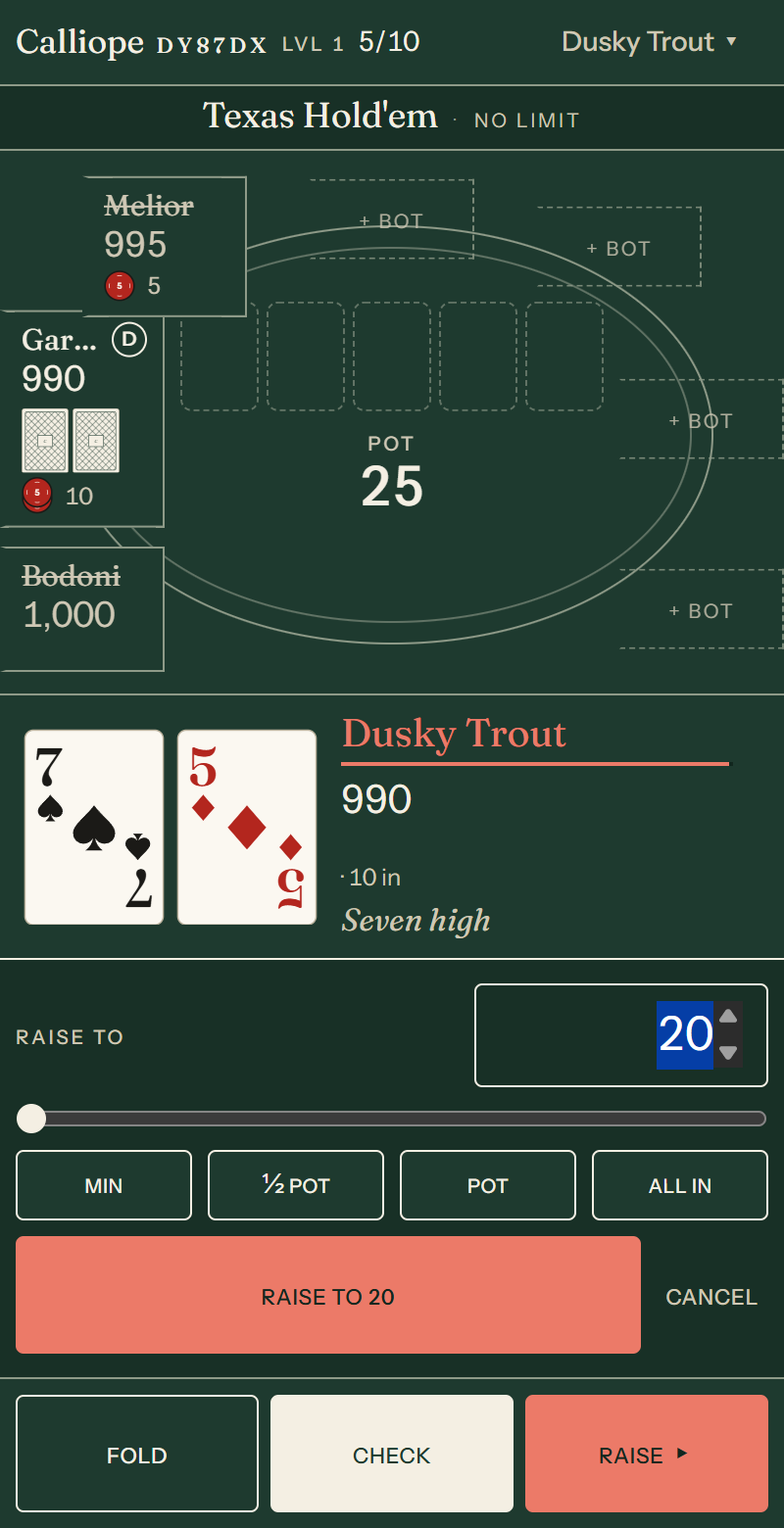
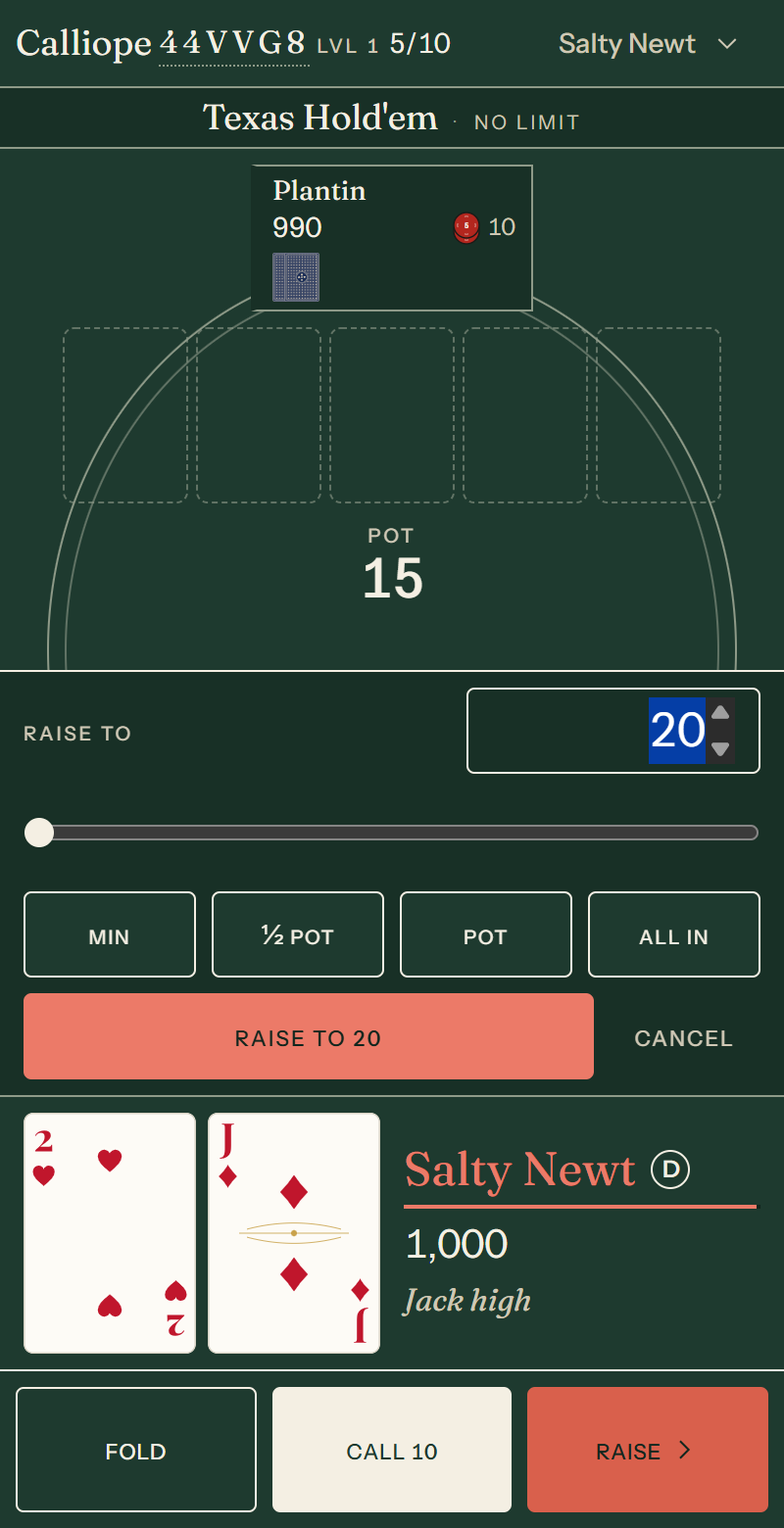
Write the refined layout into the design doc, and run the audit in CI
docs/design.md now describes what was built: Felt's values beside Paper
& ink's in the colour table, the new tokens (--ink-disabled, --seat-bg,
--t-h3, --t-lead, --t-seat, --s-0, --r-panel, --hit), the 44px hit area,
the icon set, the legibility rule and index tiles, the phone horseshoe,
the wide ellipse and the short layout, the stage under the pot, the
seat card's single stack line, the own seat sized for the most cards,
the notices in the game strip, the action bar's waiting and primary
states, and the lobby's folded sections and save bar.

npm run e2e:layout runs the layout audit; CI runs it for all six games
at eight players on a phone, a phone on its side and a laptop. The
README's table screenshots are retaken from the walkthroughs.

diff --git a/docs/design.md b/docs/design.md
@@ -14,29 +14,33 @@ Three tests for any new screen or component:
 
 ## 2. Tokens
 
-Tokens are CSS custom properties on `:root`, set by the active theme. Components only use tokens, never raw values. Every theme must define every token.
+Tokens are CSS custom properties on `:root`, set by the active theme, in `packages/web/src/styles/tokens.css`. Components only use tokens, never raw values. Every theme must define every colour token. `packages/web/test/tokens.test.ts` holds these rules: it fails on a missing token, a contrast below the minimums below, a raw font size or colour outside `tokens.css`, or a shadow, blur or gradient.
 
 ### Color
 
-| Token | Paper & ink | Meaning |
-|---|---|---|
-| `--paper` | `#F4EFE3` | Page ground |
-| `--paper-2` | `#EAE3D2` | Slightly deeper ground: panels, the table surface |
-| `--paper-3` | `#DDD4BE` | Pressed/inset surfaces, disabled fills |
-| `--ink` | `#1B1A17` | Primary text, black suits, rules |
-| `--ink-2` | `#5B574D` | Secondary text, hints, folded players |
-| `--ink-3` | `#9A9384` | Tertiary: placeholders, hairlines |
-| `--red` | `#B3261E` | Red suits, the "to act" mark, destructive confirmation |
-| `--red-2` | `#8F1D17` | Red pressed state |
-| `--on-red` | `#FBF8F1` | Text on a red fill. Each theme picks the readable one |
-| `--accent` | `#1F4E5F` | A single cool ink for links and the active tab. Used sparingly |
-| `--field-bg` | `#FBF8F1` | Input and select fill |
-| `--card-face` | `#FBF8F1` | Card stock, slightly whiter than paper |
-| `--card-back` | `#1B1A17` | Card back ink (pattern drawn in `--paper`) |
-| `--felt` | `#EAE3D2` | Table surface. In paper & ink it is just deeper paper |
-| `--focus` | `#1F4E5F` | Keyboard focus ring |
+The names come from the paper & ink theme, where they are literal. Felt is the default theme, so its values are listed first.
 
-Contrast requirements: `--ink` on `--paper` ≥ 12:1, `--ink-2` on `--paper` ≥ 5:1, `--red` on `--paper` ≥ 5.5:1, `--paper` on `--ink` ≥ 12:1.
+| Token | Felt | Paper & ink | Meaning |
+|---|---|---|---|
+| `--paper` | `#1E3A2F` | `#F4EFE3` | Page ground |
+| `--paper-2` | `#183026` | `#EAE3D2` | Slightly deeper ground: panels, the game strip, fields |
+| `--paper-3` | `#12261E` | `#DDD4BE` | Pressed/inset surfaces, disabled fills |
+| `--ink` | `#F4EFE3` | `#1B1A17` | Primary text, rules |
+| `--ink-2` | `#CFC8B5` | `#5B574D` | Secondary text, hints, folded players |
+| `--ink-3` | `#8E9A88` | `#9A9384` | Tertiary: placeholders, hairlines |
+| `--ink-disabled` | `#8E9A88` | `#6F6A5E` | A disabled control's label: faint, but still legible |
+| `--red` | `#EC7A68` | `#B3261E` | Red suits, the "to act" mark, aggressive and destructive actions |
+| `--red-2` | `#D9604C` | `#8F1D17` | Red pressed state |
+| `--on-red` | `#12261E` | `#FBF8F1` | Text on a red fill. Each theme picks the readable one |
+| `--accent` | `#9AC7D6` | `#1F4E5F` | A single cool ink for links and the active tab. Used sparingly |
+| `--focus` | `#9AC7D6` | `#1F4E5F` | Keyboard focus ring |
+| `--felt` | `#1E3A2F` | `#EAE3D2` | Table surface |
+| `--seat-bg` | `#183026` | `#EAE3D2` | An opponent's seat card, so seats read as things set on the felt |
+| `--field-bg` | `#183026` | `#FBF8F1` | Input and select fill |
+| `--card-face` | `#FBF8F1` | `#FBF8F1` | Card stock, the same on every theme |
+| `--card-back` | `#F4EFE3` | `#1B1A17` | The fallback card's back |
+
+Contrast minimums, per theme: `--ink` on `--paper` ≥ 7:1; `--ink-2` on `--paper` ≥ 4.5:1; `--on-red` on `--red` ≥ 4.5:1; `--ink` on `--seat-bg` ≥ 7:1; `--ink-disabled` on `--paper` and on `--paper-3` ≥ 3:1.
 
 Chip colors come from room config, not the theme. The theme provides a chip *style* (see §5), and the default denomination set:
 
@@ -61,24 +65,37 @@ Scale (rem, base 16px):
 | Token | Size | Use |
 |---|---|---|
 | `--t-display` | 3.5 | Landing title, night-report winner |
-| `--t-h1` | 2.25 | Screen titles |
-| `--t-h2` | 1.5 | Section titles, player's own hand label |
+| `--t-h1` | 2.25 | Screen titles, the room code |
+| `--t-h2` | 1.5 | Section titles, the player's own name |
+| `--t-h3` | 1.25 | The player's own stack, the turn stamp on a phone |
+| `--t-lead` | 1.125 | Brand, game strip, seat names in the lobby |
 | `--t-body` | 1.0 | Body |
-| `--t-small` | 0.875 | Hints, seat names |
-| `--t-micro` | 0.75 | Small caps labels, folio |
-| `--t-stack` | 1.125 | Stack numbers on seats |
+| `--t-small` | 0.875 | Hints, opponents' names and stacks on a phone |
+| `--t-seat` | 0.8125 | The smallest seat text on a phone |
+| `--t-micro` | 0.75 | Small caps labels, folio. Nothing is set smaller |
+| `--t-stack` | 1.125 | Stack numbers on wide-screen seats |
 | `--t-pot` | 1.75 | Pot in the middle |
-| `--t-action` | 1.25 | Action bar buttons |
+| `--t-action` | 1.125 | Action bar buttons |
 
 Small caps labels (`font-variant-caps: all-small-caps; letter-spacing: 0.08em`) are the standard way to label a value: "POT", "TO CALL", "DEALER", "BLINDS 5 / 10".
 
 ### Space and rules
 
-Spacing scale: `4, 8, 12, 16, 24, 32, 48, 64` px as `--s-1` … `--s-8`.
+Spacing scale: `4, 8, 12, 16, 24, 32, 48, 64` px as `--s-1` … `--s-8`, and `--s-0` (2px) for hairline offsets only.
 
 Rules are 1px `--ink-3` or 1px `--ink` for emphasis. Double rules (two 1px lines 3px apart) mark section ends, as in a ledger. No box shadows. Panels are distinguished by `--paper-2` fill and a hairline, or by a rule alone.
 
-Corner radius: cards 6px, chips are circles, buttons 4px, panels 0px. Sharp corners are part of the print feel.
+Corner radius: cards 6px (or the deck's own), chips are circles, buttons 4px (`--r-btn`), panels 0px (`--r-panel`). Sharp corners are part of the print feel.
+
+### Controls
+
+`--hit` (44px) is the smallest thing a finger is asked to hit. Every `.btn`, and anything else given the `hit` class, carries a transparent pad that makes its hit area at least `--hit` square however small it is drawn, so a quiet 36px "stand up" is drawn small and hit large. Inputs and selects are 44px tall; a checkbox or radio sits in a 44px label row.
+
+Buttons come in three sizes: the action bar's (64px on a phone, 56px wide), the default (44px), and small (drawn 36px). Four inks: outline (secondary), ink fill (commit), red fill (aggressive or destructive), quiet (text only). Disabled is a `--paper-3` fill with `--ink-disabled` text.
+
+### Icons
+
+Few, and drawn like the rest of the page: `components/Icon.tsx` holds inline SVGs on a 24-unit grid, one 1.5 stroke in the current ink, square ends, no fills (chevrons, close, plus, check, copy, pencil, person). They sit on the text baseline at 16, 20 or 24px. The dealer button stays a printed "D" in a circle, because it is type. Text glyphs (▾ ▸ ×) are not used as icons.
 
 ### Motion
 
@@ -96,10 +113,11 @@ Cards come from **Open Playing Cards** decks, the format Card Atelier exports ([
 
 | Context | Width |
 |---|---|
-| Player's own hole cards (phone) | 72–88px |
-| Player's own hole cards (desktop) | 112px |
-| Board | 40px phone / 72px desktop |
-| Opponent cards (face down / stud up cards) | 24px phone / 36px desktop |
+| Player's own cards, phone | 72–88px for two or three; 64px for four to seven, overlapped only when they will not fit |
+| Player's own cards, wide | 112px for two or three, 88px for four or five, 76px for more |
+| Board | 48–64px on a phone; on a wide screen as large as clears the seats, up to 120px |
+| Opponents' face-up cards (tiles) | 22px phone / 30px wide |
+| Opponents' face-down cards (backs, fanned) | 18px phone / 24px wide |
 | Theme previews | 26px |
 
 Rules:
@@ -108,7 +126,7 @@ Rules:
 - **Size from the deck.** Height is width × `heightMm / widthMm`, rounded to a whole pixel; corners follow `cornerRadiusMm`, and bleed is cropped off. Images keep their transparent corners, so any felt shows through.
 - **Vector first.** A card is drawn from its `vector` SVG when the deck has one: the browser rasterises it at exactly the drawn size, so it is sharp on any screen, and the files are a fraction of the PNGs' size. Imported decks keep only the SVG when both are present.
 - **PNGs drawn at exact size.** A deck's PNGs are print-sized, and a browser shrinking one five-fold in a single step leaves it soft on a 1x screen. A PNG-only card is resampled once per session (`createImageBitmap`, high quality) to exactly its on-screen device-pixel size and drawn from that rendition (`renditions.ts`); the original shows for the few milliseconds until it is ready.
-- **Legibility is the deck's.** Calliope draws a card exactly as the deck drew it and adds nothing over it. A print-proportioned index is ~6% of card height, two pixels at 30px, so decks meant for play here are exported with oversized indices (Card Atelier: Artwork → Lettering → Oversize for digital play); the starter decks all are.
+- **A picture only where it can be read.** Calliope draws a card exactly as the deck drew it and adds nothing over it, but it only uses the picture where the corner index will be legible: at least 6.5px tall on screen. The index height comes from the deck's smallest `ranks[].indexHeightMm` over its `heightMm` (6% when the deck does not say, which is a print-proportioned index). Below that size the card is drawn as an **index tile** instead: card stock with the rank set large (never under 12px) in Instrument Sans and the suit pip under it, in the card inks. The tile is not painted over the deck's art; it stands in place of it, the way a scorer writes "K♥" rather than sketching the card. Opponents' face-up cards are always tiles, because a seat has no room for a card big enough to read. Decks meant for play here are exported with oversized indices (Card Atelier: Artwork → Lettering → Oversize for digital play) so that the board and the player's own cards show the art; the starter deck's index is about 10% of its height, so its pictures are legible from about 48px wide.
 - **One choice, faces and back together.** The back is the deck's; there is no separate back picker. The preference is local to the device, like the theme. Other players never see your deck.
 - **Starter decks** ship unzipped under `packages/web/public/decks/<folder>/` and are served as plain files, fetched once and cached. The build checks each (complete french-52, a licence, every picture present: PNGs at the stated size, SVGs with an `<svg>` root) and fails otherwise. The first folder in `starterDecks({ order })` in `vite.config.ts` is the default.
 - **Imported decks** (Profile → Deck → Import) accept the `.zip` or the single `.cards.json`, are checked the same way, and live in IndexedDB as PNG blobs, drawn from object URLs made once when the deck is chosen. A re-import with the same `deckId` replaces the copy; an imported copy of a starter deck stands in for it until removed.
@@ -119,50 +137,60 @@ Face-down cards belonging to the player are never shown face down; the player al
 
 ## 4. Table layout
 
-The player's seat is always bottom-center. Opponents are arranged on an arc above. Positions are computed from the player's seat index so every player sees themselves at the bottom.
+The player's seat is always bottom-center. Opponents are arranged round the table above it, clockwise from the player, so every player sees themselves at the bottom. Only occupied seats are drawn: an open chair is not worth the room on the felt. The host adds bots from the table menu, and a watcher takes the next open seat from their own panel.
 
-### Phone portrait (≥ 360px wide, the primary layout)
+Every layout is checked by `packages/web/e2e/layout-audit.mjs`, which plays each game at 3, 6 and 8 players and resizes through eight windows from 360×640 to 1920×1080 (§9). No seat may overlap another seat, the board, the pot or the player's own seat; nothing may leave the window; and the table may not move between hands.
+
+Which layout is used is decided once, in `Table.tsx`, and handed to CSS as `data-layout` on the table screen, so the script and the styles cannot disagree.
+
+### Phone portrait (`phone`, the primary layout)
 
 ```
 ┌──────────────────────────────┐
-│ CALLIOPE  ·  Room K7Q2M4   ⋯ │  top bar: 40px, room code, menu
+│ Calliope K7Q2M4       Alice ⌄│  top bar: 44px, room code, menu
+│   Omaha · pot limit          │  game strip: one line, always
 ├──────────────────────────────┤
-│                              │
-│   (opp)   (opp)   (opp)      │  opponents row(s): up to 7 seats
-│ (opp)                 (opp)  │  on an arc; each seat is a
-│   (opp)           (opp)      │  compact "seat card" (§4.2)
-│                              │
-│        ┌──┐┌──┐┌──┐┌──┐┌──┐  │  board, centered
-│        └──┘└──┘└──┘└──┘└──┘  │
-│            POT  1,240        │  pot, small caps label
-│                              │
+│  (opp 3)   (opp 4)   (opp 5) │  across the top
+│   ┌──┐ ┌──┐ ┌──┐ ┌──┐ ┌──┐   │  the board, full width
+│   └──┘ └──┘ └──┘ └──┘ └──┘   │
+│ (opp 2)      POT      (opp 6)│  pot between the side columns,
+│ (opp 1)     1,240     (opp 7)│  the stage under it
 ├──────────────────────────────┤
 │  ┌────┐ ┌────┐   Alice       │  player's own seat: large cards,
 │  │ A♠ │ │ K♥ │   2,450       │  name, stack, hand label
-│  └────┘ └────┘   "Ace high"  │
+│  └────┘ └────┘   Ace high    │
 ├──────────────────────────────┤
-│ [ FOLD ]  [ CALL 40 ]  [ RAISE ▸ ] │  action bar: 64px tall
+│ [ FOLD ] [ CALL 40 ] [RAISE ›]│  action bar: 64px buttons
 └──────────────────────────────┘
 ```
 
-The action bar is fixed to the bottom with safe-area padding. The board and pot are centered in the remaining space. Opponent seats never overlap the board.
+A horseshoe on a grid. Opponents run up the left column, across the top and down the right, clockwise from the player, so the first opponent to the player's left is at the bottom of the left column. Up to two opponents sit across the top; three to five put one in each side column; six or more put two in each. The board spans the row between the top seats and the side columns; the pot sits in the middle column between them, with the **stage** under it. Every seat has its own grid cell, so a seat can never land on the board or on another seat, whatever it holds.
 
-### Desktop (≥ 900px)
+The table takes whatever height is left after the top bar, the strip, the player's own seat and the action bar, and none of those change height during a night (§4.2a, §4.4, §6), so the table does not move between turns or between hands. The board's cards are sized from what is left: 48–64px, smaller when two seats stand in each side column.
 
-Same structure, but the opponent arc is a true ellipse around the table surface and the player's seat sits inside the ellipse at the bottom. The action bar becomes a centered panel 560px wide rather than full width. A hand-history rail (last 5 hands, one line each) sits on the right at ≥ 1200px.
+### Wide (`wide`, 900px and up)
+
+Seats sit on an ellipse round the felt, spread evenly over the players actually seated with the player's own place at the bottom counted as one of the positions. The board sits just above the middle and is sized to clear every seat on the upper half of the ellipse, up to 120px a card; the pot and the stage sit under it in a column no wider than 36% of the table, which keeps them clear of the lower seats. The player's own cards and the action panel (560px) share one centred column under the table. A hand-history rail sits on the right at ≥ 1200px.
+
+### Short (`short`, any window under 520px tall and wider than it is tall)
+
+A phone on its side. The table, laid out as the phone's horseshoe, takes the left of the window; the player's own seat and the action bar stack in a column on the right (at least 18rem, at most 38%). Nothing else changes.
 
 ### 4.2 Seat card
 
-An opponent's seat is a 120×64px (phone) block:
+An opponent's seat, sized by its cell on a phone and 168px wide on the ellipse:
 
 ```
 ┌──────────────────┐
-│ ▮ Bob        D   │   name, dealer button "D" as a printed circle
-│   1,850          │   stack in tabular figures
-│ [▓][▓]           │   face-down cards, or stud up cards face up
-│ bet 40           │   current street bet, shown only when > 0
+│▌Bob            D │   name, dealer button "D" as a printed circle
+│ 1,850      ● 40  │   stack, and this street's bet at the right
+│ ▓▓ [K♥][7♣]      │   face-down cards fanned; face-up ones as tiles
 └──────────────────┘
 ```
+
+The right-hand end of the stack line carries, in order of precedence: the win ("+1,240", while settling), the hand shown at showdown ("Two pair, kings"), this street's bet with its chips, or how many cards were drawn ("drew 3").
+
+Face-down cards are a fan of backs, overlapped: how many, not what. Face-up cards (stud's up-cards, everything at a showdown) are index tiles (§3). When there are more than fit, as at a seven-card stud showdown, they overlap from the right, so every rank stays in view.
 
 States:
 
@@ -170,10 +198,10 @@ States:
 |---|---|
 | To act | Left edge carries a 3px `--red` bar; name in `--red`. A thin timer line under the name drains left to right |
 | Folded | Whole card at `--ink-2`, cards removed, name struck with a single rule |
-| All-in | "ALL IN" small caps under the stack, stack shows 0 |
+| All-in | "ALL IN" small caps beside the stack |
 | Sitting out | `--ink-3`, name in italics |
 | Disconnected | A small "·· ··" morse-style mark after the name; nothing else changes, the seat is held |
-| Winner (settle) | Name and stack in `--ink` bold, a short "+1,240" in `--red` beside the stack for `--d-slow` × 4 |
+| Winner (settle) | Name bold, border in `--ink`, "+1,240" in `--red` at the end of the stack line for `--d-slow` × 4 |
 
 ### 4.2a Which game is being played
 
@@ -188,6 +216,13 @@ Pineapple discard it reads "Pineapple · everyone throws one away". Between hand
 it shows what the table is set to; while the dealer is choosing it says who is
 choosing.
 
+It is also where the table says what it is waiting on: "shuffling", "waiting for
+a second player", "waiting for the host to deal", "paused, and so is the clock",
+and, in `--red`, "last hand of the night" and "stakes are up: 10/20". These used
+to be bars of their own that pushed the table down every hand. The strip is
+always one line, with the note cut short rather than wrapped, so it never
+changes height.
+
 ### 4.2b Throwing cards away
 
 When it is a player's turn to discard, their own cards become the control: tap a
@@ -201,7 +236,7 @@ draw poker that is the only read available.
 
 ### 4.2b The level chip
 
-When the stakes climb, the top bar carries a small caps level number, the current blinds, and how long or how many hands until the next level. It turns `--red` in the last minute. A `notice-bar` announces the change on the first hand at a new level and then gets out of the way.
+When the stakes climb, the top bar carries a small caps level number, the current blinds, and how long or how many hands until the next level. It turns `--red` in the last minute. The game strip announces the change for a few seconds at the first hand at a new level and then gets out of the way.
 
 Stakes never change inside a hand. The clock, and the level with it, freezes while the table is paused, and the paused notice says so.
 
@@ -218,13 +253,14 @@ themselves:
   that mark written large; the text is `--on-red`, which each theme sets to the
   one readable ink for its own red.
 
-  It is pressed onto the table area rather than the window, so on desktop it
-  lands on the felt and not halfway into the hand rail, and it sits low, under
-  the board and **clear of the pot**. The pot is the number you want most while
-  you are deciding, and a notice that hides it buys attention at the price of
-  the thing it is calling you to; being low also puts it between the board and
-  your own cards, where you are looking anyway. That is why it is one short band
-  and not a tall plate — a plate does not fit under the pot on a phone.
+  It is pressed onto the **stage**, the table's own place under the pot
+  (§4), so it lands on the felt and not halfway into the hand rail, it is
+  **clear of the pot**, and it covers no seat. The pot is the number you want
+  most while you are deciding, and a notice that hides it buys attention at the
+  price of the thing it is calling you to; being low also puts it between the
+  board and your own cards, where you are looking anyway. That is why it is one
+  short band and not a tall plate. Between two columns of seats on a phone the
+  stage is narrow, so the band sets smaller and takes two lines there.
 
   It holds for 1.6 seconds and then fades, and a tap or a keypress clears it
   early, so somebody already watching gets the table straight back. It never
@@ -243,7 +279,13 @@ hears it once rather than twice.
 
 ### 4.3 Board and pot
 
-Board cards are dealt left to right into fixed slots (5 for community games; stud shows no board and the slots collapse). Pot is a small caps label above a large tabular number. Side pots are listed under the main pot as "SIDE 320 · 180" in `--t-small`. When betting is open, the current street's bets are shown at each seat and are not yet in the pot; at street end they slide in.
+Board cards are dealt left to right into fixed slots (5 for community games; stud and draw show no board and the row collapses). Between hands the slots follow the game the table is set to, so they do not come and go. Pot is a small caps label above a large tabular number. Side pots are listed under the main pot as "SIDE 320 · 180" in `--t-small`. When betting is open, the current street's bets are shown at each seat and are not yet in the pot; at street end they slide in.
+
+The result of a hand ("Alice wins the pot of 1,240 with two pair, kings and threes") is printed on the stage under the pot while the hand settles, in display italic on a hairline-ruled slip, and clamped to six lines in a narrow stage.
+
+### 4.4 Your own seat
+
+The player's cards and next decision are the loudest things on the screen (§1). The seat is sized for the **most** cards the game can deal the player, not the cards held now, so it keeps one height through the hand and between hands and nothing above it moves. With two cards on a phone, name, stack and hand label sit beside the cards; with three or more, they are one line above the cards, which then get the full width. Seven stud cards overlap only as far as they must, always leaving at least 28px of each card, index side, in view.
 
 ## 5. Chips
 
@@ -266,7 +308,9 @@ The most important component. Three primary controls, always in the same order, 
 
 - Buttons are 64px tall on phone, 56px on desktop, full width split three ways with 8px gaps. Labels at `--t-action`, small caps.
 - Fold is outlined (`--ink` hairline, paper fill). Check/Call is filled `--ink` with paper text. Bet/Raise is filled `--red` with paper text. This encodes cost: quiet, committed, aggressive.
-- When it is not the player's turn, the bar remains visible with the buttons at `--ink-3` outline and the text "Waiting for Bob". Pre-actions ("check/fold", "call any") are shown as small toggles above the bar; if a pre-action is set, the bar shows it as a pressed toggle.
+- When it is not the player's turn, the bar keeps its buttons where they will be, faint, with "Waiting for Bob" printed over them in display italic. It is the same height either way, so nothing above it moves when the action comes round.
+- When there is one thing for the player to do that is not a bet, it takes the bar's place at the bar's height, in `--red`: "Deal the next hand" for the host when dealing is by hand, "Re-buy 1,000 chips" for a player out of chips.
+- The draw bar (§4.2b) is the same height as the action bar: a 20px instruction line over 44px buttons on a phone, the instruction beside the buttons on a wide screen.
 - Tapping Bet/Raise slides up a **bet panel** (not a modal) above the bar:
 
 ```
@@ -307,7 +351,9 @@ Buttons: "Copy", "Save image", "Choose my own words", "Got it". Recovery screen 
 
 ### Lobby
 
-Left: the seat ring as it will appear at the table, with empty seats printed as dotted circles ("open"). Host sees "+ bot" on empty seats. Right (below on phone): settings as a printed form with sections: Game (variant mode, betting, blinds), Chips (buy-in, denominations, starting stack), Re-buys, End of night. A share block shows the room code large, a QR of the join link, and the link itself with a copy button. "Deal the first hand" is the single primary action, `--red`; it is disabled while the settings form has unsaved edits, with the reason and a "Save them" button printed beside it rather than in a tooltip, which a phone has no way to show. Below the form, quietly, "Cancel this table".
+Left: the seats, with empty seats printed with dotted rules ("open"). Host sees "+ bot" on empty seats. Right (below on phone, after the seats and the invitation): settings as a printed form in sections: Game (variant mode, betting, blinds), Chips (buy-in, denominations), Re-buys, Rising stakes, End of the night. Each section folds to one line that says what it is set to ("$20 for 1,000 chips · 6 colours"), so the form reads at a glance and a phone does not scroll past all of it; Game is open for the host. The game picker lists names only, with the chosen game's description printed under it. A share block shows the room code large, a QR of the join link, and the link itself with a copy button.
+
+"Deal the first hand" is the single primary action, `--red`; it is disabled while the settings form has unsaved edits. An unsaved edit brings up a strip along the foot of the window, "You have unsaved settings.", with discard and Save settings, so saving is one tap from wherever the host has scrolled; the note by the Deal button points to it rather than to a tooltip, which a phone has no way to show. Below the form, quietly, "Cancel this table".
 
 ### Table
 
@@ -327,7 +373,7 @@ Same ledger style, per night, with lifetime totals at the top.
 
 ## 8. Theme contract
 
-A theme is a `[data-theme="<id>"]` block in `packages/web/src/styles/tokens.css` that redefines **every** colour token from §2: `color-scheme`, the eleven palette tokens, `--field-bg`, and the six card tokens. Fonts, type scale, spacing, motion and radii are inherited from `:root` and must not be overridden — that is what guarantees the action bar is the same action bar on every theme.
+A theme is a `[data-theme="<id>"]` block in `packages/web/src/styles/tokens.css` that redefines **every** colour token from §2: `color-scheme`, the palette tokens (including `--ink-disabled` and `--seat-bg`), `--field-bg`, and the six card tokens. `test/tokens.test.ts` fails a theme that leaves one out or falls below a contrast minimum. Fonts, type scale, spacing, motion and radii are inherited from `:root` and must not be overridden — that is what guarantees the action bar is the same action bar on every theme.
 
 Each theme also has an entry in `packages/web/src/themes.ts` with its `name`, a one-line `blurb`, and the `themeColor` the browser paints its chrome with.
 
@@ -367,7 +413,8 @@ Dialogs guard: ending the night, standing up, re-buying (which shows the real mo
 
 - Every interactive element is keyboard reachable with a visible `--focus` ring (2px, offset 2px).
 - Suits are never conveyed by color alone: the pip glyph is always present, and the hand label ("Flush, ace high") is text.
-- Minimum tap target 44px.
+- Minimum tap target 44px (`--hit`, §2), however small the control is drawn.
+- `e2e/layout-audit.mjs` checks the tap targets, overlaps and card sizes of every screen at eight window sizes, and fails on any.
 - Live region announces: "Your turn", "Bob raises to 120", "You win 1,240".
 - All text meets WCAG AA at its size against its ground.
 

diff --git a/README.md b/README.md
@@ -188,6 +188,7 @@ npm run e2e:draw-games --workspace @calliope/web       # Pineapple and five-card
 npm run e2e:lobby-and-sharing --workspace @calliope/web # unsaved settings, cancelling, the join link
 npm run e2e:turn-notification --workspace @calliope/web # the turn stamp and the bell
 npm run e2e:night-report --workspace @calliope/web      # the report, and the payouts on it
+npm run e2e:layout --workspace @calliope/web            # every game at every screen size: overlaps, tap targets, card sizes
 ```
 
 The walkthroughs open tables, so against a host-only server pass the same
